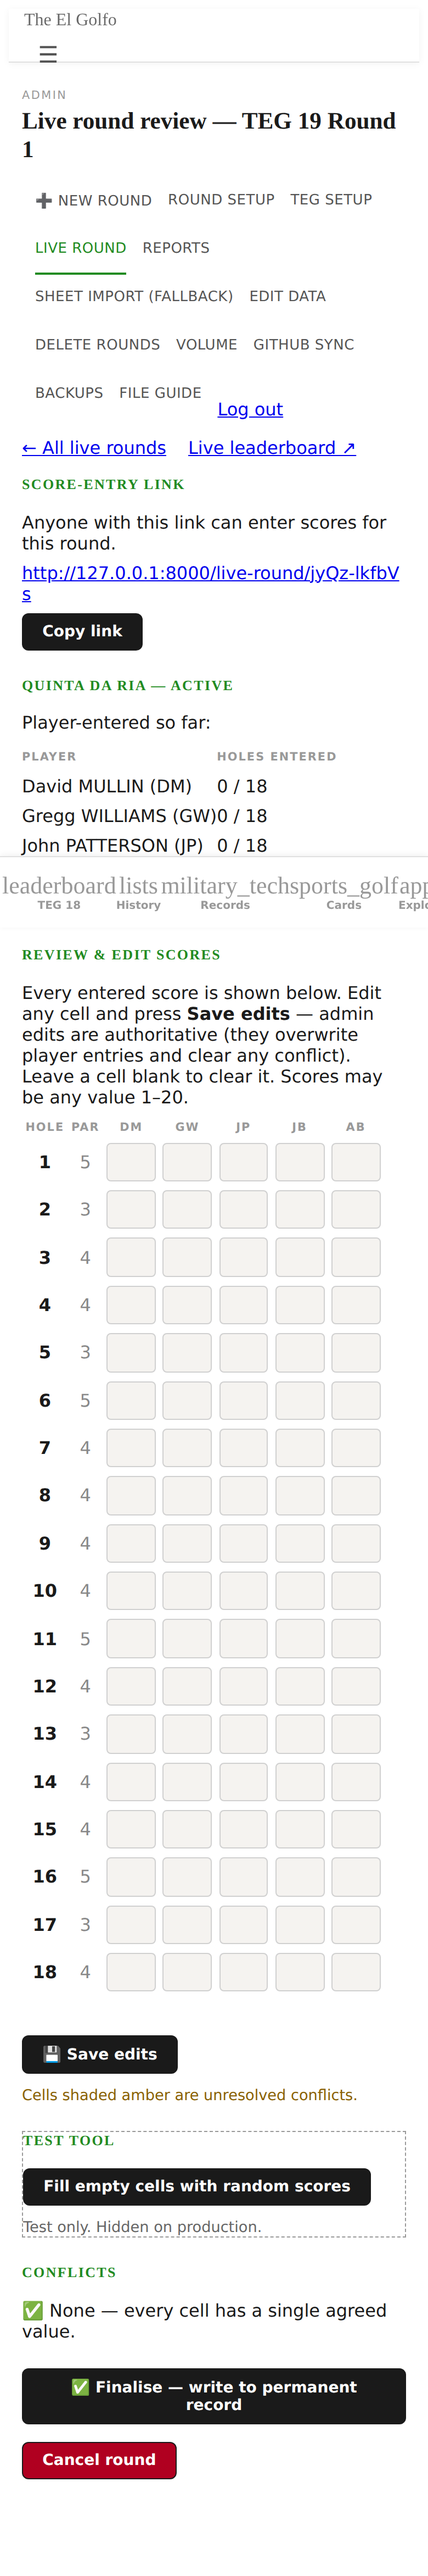
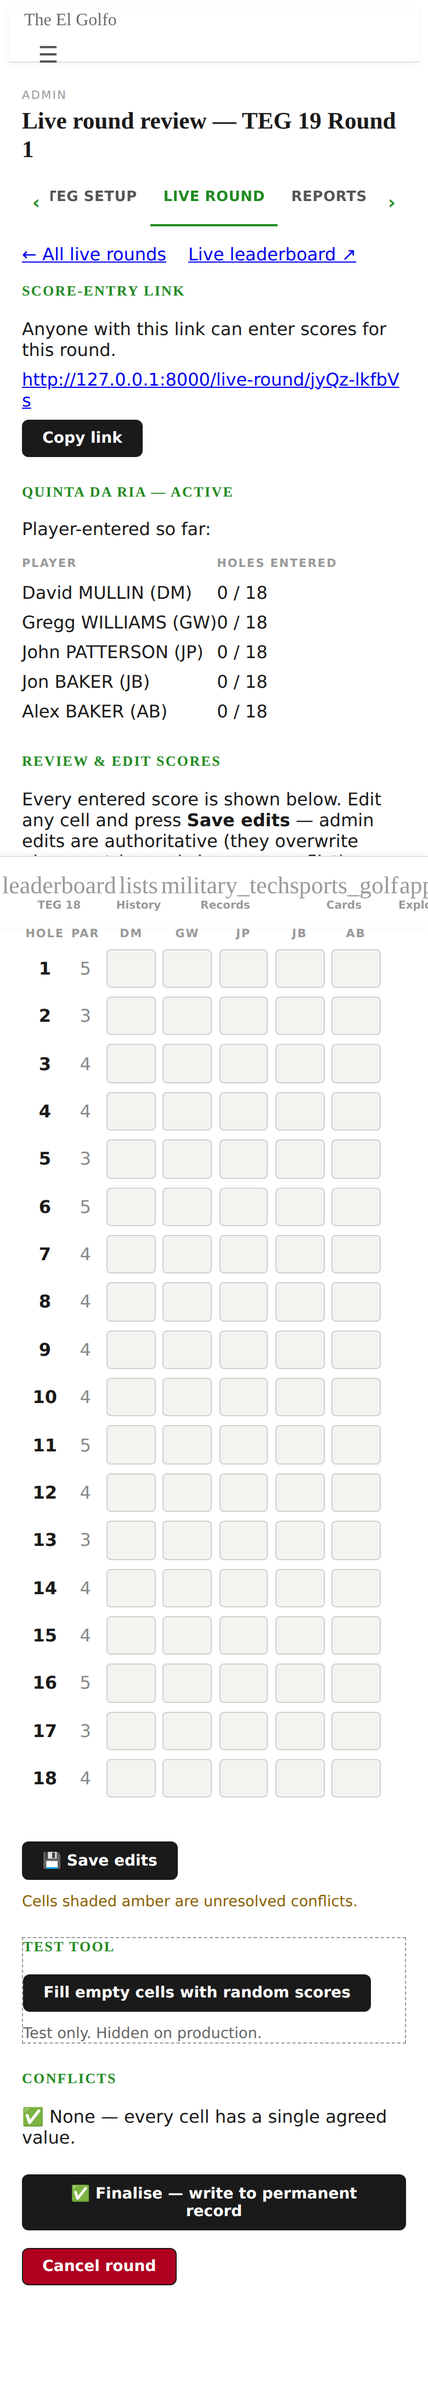
Admin sub-nav: one scrolling row on phones
The nav also carries .section-nav, so phones get the site's standard tab
row (sideways scroll, edge cues, active tab scrolled into view by
base.html) instead of five wrapped rows. Desktop layout is unchanged.
admin.css bumped to ?v=3.

Claude-Session: https://claude.ai/code/session_015PvtR7qJMdKFMXoCnM9eW4

diff --git a/webapp/static/admin.css b/webapp/static/admin.css
@@ -378,6 +378,7 @@
     display: flex;
     gap: 1rem;
     flex-wrap: wrap;
+    align-items: flex-end;
     margin-bottom: 1rem;
 }
 .admin-nav .admin-nav-logout {
@@ -440,21 +441,30 @@
    Admin pages must fit 390px with no sideways page scroll. All phone-only
    rules live here. */
 @media (max-width: 640px) {
-    /* 12 nav links: tight gaps and padding so they take few rows,
-       while keeping ~32px tap targets. */
+    /* Sub-nav: one sideways-scrolling row, not five wrapped rows. The nav also
+       carries .section-nav, so mobile.css supplies the scroll, edge fade and
+       44px tabs, and base.html scrolls the active tab into view. These rules
+       only undo .admin-nav's desktop wrap and gap, which load later and win. */
     .admin-nav {
-        gap: 0 0.9rem;
+        flex-wrap: nowrap;
+        gap: 0;
+        align-items: stretch;
+        margin-bottom: 12px;
     }
+    /* Public pages get border-box from elsewhere; without it the padding
+       stacks on mobile.css's 44px height and the underline drifts down. */
     .admin-nav .tab-underline {
         box-sizing: border-box;
-        height: auto;
-        padding: 0.3rem 0;
-        min-height: 44px;  /* touch floor, design_principles.md → Hit areas */
-        display: inline-flex;
-        align-items: center;
     }
     .admin-nav .admin-nav-logout {
+        flex: 0 0 auto;
+        display: inline-flex;
+        align-items: center;
+        min-height: 44px;
         margin-left: 0;
+        padding: 0 12px;
+        font-size: 0.8125rem;
+        white-space: nowrap;
     }
 
     /* Settings tables: narrower label column, allow wrapping, inputs may shrink. */

diff --git a/webapp/templates/partials/admin_nav.html b/webapp/templates/partials/admin_nav.html
@@ -1,5 +1,5 @@
 {# Shared admin sub-nav. `admin_active` names the current page. #}
-<nav class="section-controls admin-nav">
+<nav class="section-nav admin-nav" aria-label="Admin pages">
   <a href="/admin/new-round" class="tab-underline{% if admin_active == 'new-round' %} tab-underline--active{% endif %}">➕ New round</a>
   <a href="/admin/round-setup" class="tab-underline{% if admin_active == 'round-setup' %} tab-underline--active{% endif %}">Round setup</a>
   <a href="/admin/teg-setup" class="tab-underline{% if admin_active == 'teg-setup' %} tab-underline--active{% endif %}">TEG setup</a>

diff --git a/webapp/templates/admin_new_round_wizard.html b/webapp/templates/admin_new_round_wizard.html
@@ -9,7 +9,7 @@
 {% endblock %}
 
 {% block extra_head %}
-<link rel="stylesheet" href="/static/admin.css?v=2">
+<link rel="stylesheet" href="/static/admin.css?v=3">
 <style>
   .wizard-steps { display:flex; gap:.5rem; flex-wrap:wrap; margin-bottom:1.25rem; }
   .wizard-step {

diff --git a/webapp/templates/admin_reports.html b/webapp/templates/admin_reports.html
@@ -10,7 +10,7 @@
 {% endblock %}
 
 {% block extra_head %}
-<link rel="stylesheet" href="/static/admin.css?v=2">
+<link rel="stylesheet" href="/static/admin.css?v=3">
 {% endblock %}
 
 {% block content %}

diff --git a/webapp/templates/admin_backups.html b/webapp/templates/admin_backups.html
@@ -9,7 +9,7 @@
 {% endblock %}
 
 {% block extra_head %}
-<link rel="stylesheet" href="/static/admin.css?v=2">
+<link rel="stylesheet" href="/static/admin.css?v=3">
 {% endblock %}
 
 {% block content %}

diff --git a/webapp/templates/admin_data_update.html b/webapp/templates/admin_data_update.html
@@ -9,7 +9,7 @@
 {% endblock %}
 
 {% block extra_head %}
-<link rel="stylesheet" href="/static/admin.css?v=2">
+<link rel="stylesheet" href="/static/admin.css?v=3">
 {% endblock %}
 
 {% block content %}

diff --git a/webapp/templates/admin_delete_data.html b/webapp/templates/admin_delete_data.html
@@ -9,7 +9,7 @@
 {% endblock %}
 
 {% block extra_head %}
-<link rel="stylesheet" href="/static/admin.css?v=2">
+<link rel="stylesheet" href="/static/admin.css?v=3">
 {% endblock %}
 
 {% block content %}

diff --git a/webapp/templates/admin_edit_data.html b/webapp/templates/admin_edit_data.html
@@ -9,7 +9,7 @@
 {% endblock %}
 
 {% block extra_head %}
-<link rel="stylesheet" href="/static/admin.css?v=2">
+<link rel="stylesheet" href="/static/admin.css?v=3">
 {% endblock %}
 
 {% block content %}

diff --git a/webapp/templates/admin_file_guide.html b/webapp/templates/admin_file_guide.html
@@ -9,7 +9,7 @@
 {% endblock %}
 
 {% block extra_head %}
-<link rel="stylesheet" href="/static/admin.css?v=2">
+<link rel="stylesheet" href="/static/admin.css?v=3">
 {% endblock %}
 
 {% block content %}

diff --git a/webapp/templates/admin_live_round.html b/webapp/templates/admin_live_round.html
@@ -9,7 +9,7 @@
 {% endblock %}
 
 {% block extra_head %}
-<link rel="stylesheet" href="/static/admin.css?v=2">
+<link rel="stylesheet" href="/static/admin.css?v=3">
 {% endblock %}
 
 {% block content %}

diff --git a/webapp/templates/admin_live_round_review.html b/webapp/templates/admin_live_round_review.html
@@ -9,7 +9,7 @@
 {% endblock %}
 
 {% block extra_head %}
-<link rel="stylesheet" href="/static/admin.css?v=2">
+<link rel="stylesheet" href="/static/admin.css?v=3">
 {% endblock %}
 
 {% block content %}

diff --git a/webapp/templates/admin_login.html b/webapp/templates/admin_login.html
@@ -9,7 +9,7 @@
 {% endblock %}
 
 {% block extra_head %}
-<link rel="stylesheet" href="/static/admin.css?v=2">
+<link rel="stylesheet" href="/static/admin.css?v=3">
 {% endblock %}
 
 {% block content %}
